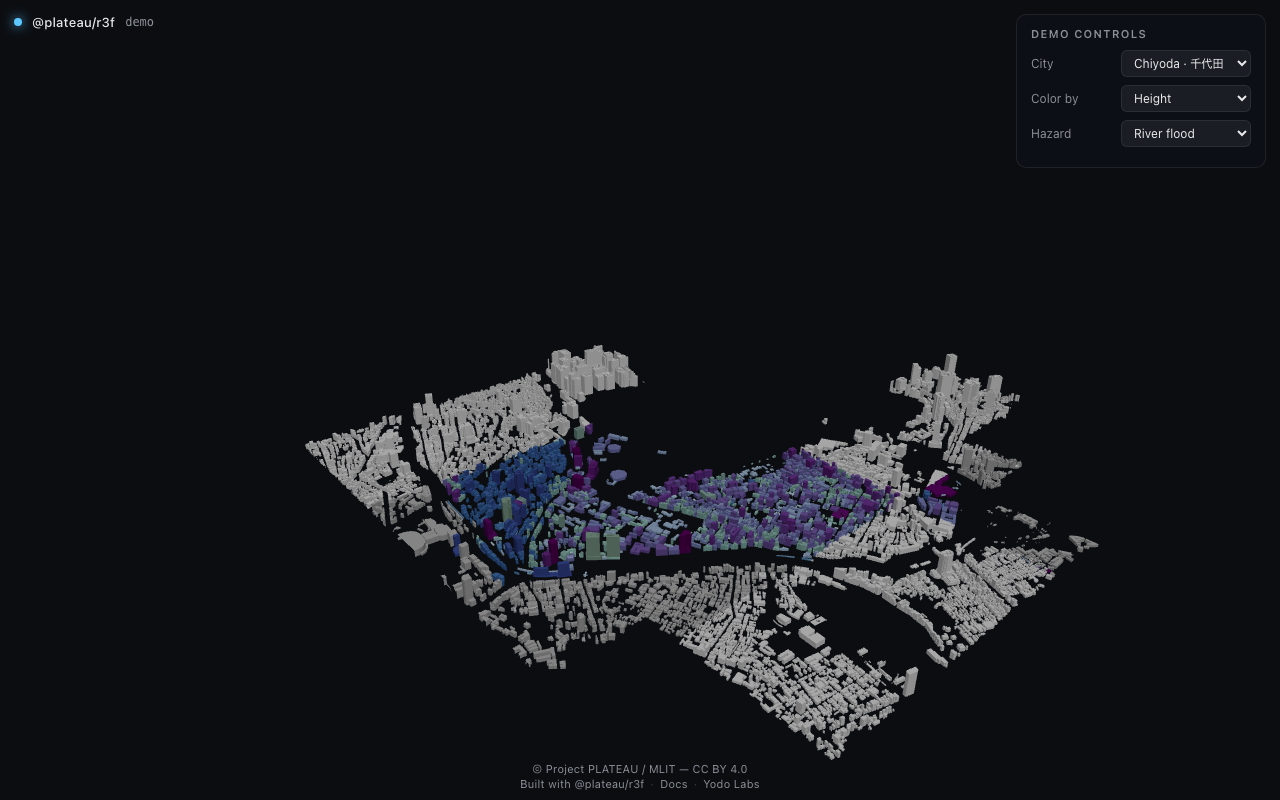
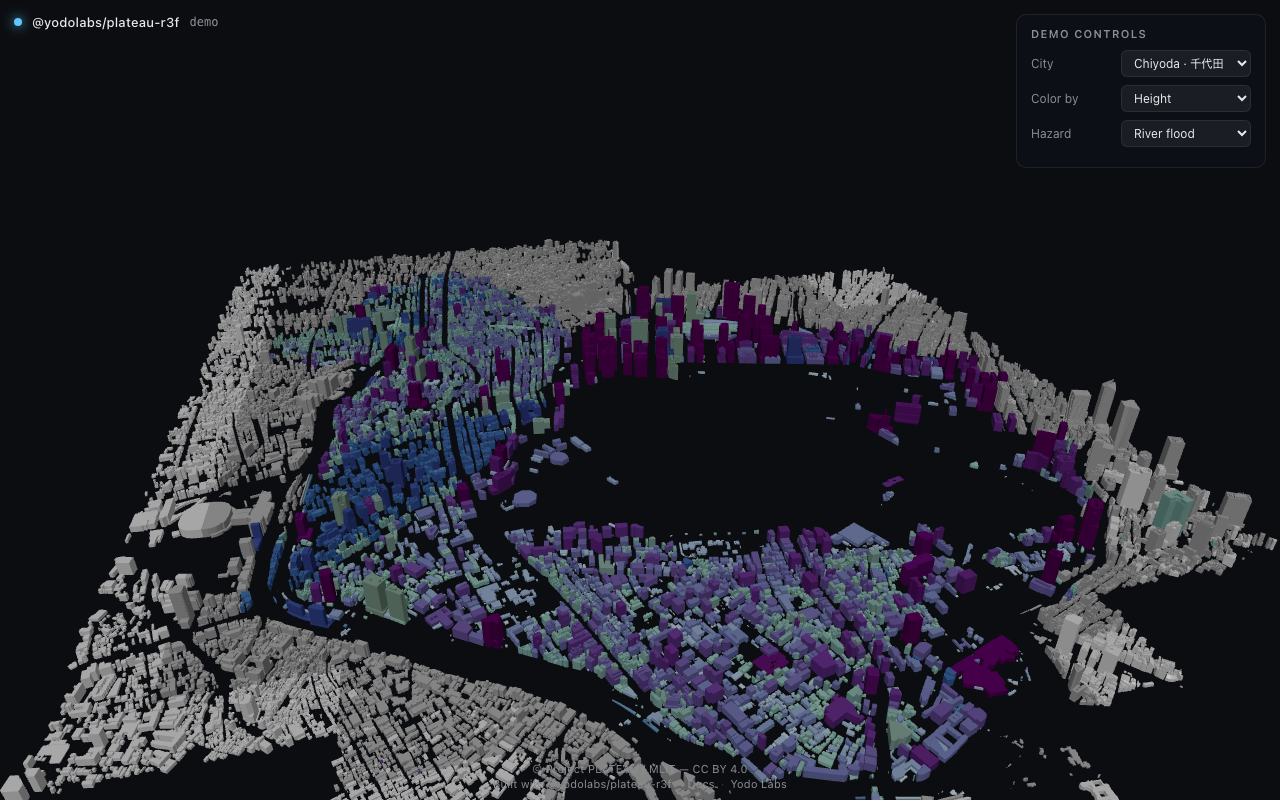
0.1.1: resilient rebuildTile retry on visibility
Fixes a race where AutoFit camera reframing during initial load caused
3D Tiles to evict tiles whose style arrows were still fetching, leaving
the re-loaded meshes unstyled. The visibility callback now retries
rebuildTile when a tile reaches 'visible' state without a color texture.

Verified on the live demo:
  chiyoda  33% colored coverage (was 12%)
  minato   26% colored coverage (was ~7%)
  kamakura 18% colored coverage (was ~7%)

diff --git a/src/core/PlateauRuntime.ts b/src/core/PlateauRuntime.ts
@@ -333,15 +333,29 @@ export async function createPlateauRuntime(
   });
 
   tileset.onTileVisibilityChanged((handle, visible) => {
+    const uri = handle.tile_content_uri;
     let changed = false;
     if (visible) {
-      if (!visibleUris.has(handle.tile_content_uri)) {
-        visibleUris.add(handle.tile_content_uri);
-        styleCache.retain(handle.tile_content_uri);
+      if (!visibleUris.has(uri)) {
+        visibleUris.add(uri);
+        styleCache.retain(uri);
         changed = true;
       }
-    } else if (visibleUris.delete(handle.tile_content_uri)) {
-      styleCache.release(handle.tile_content_uri);
+      // Resilient retry: if the tile reached "visible" without being styled
+      // (e.g. an earlier rebuildTile bailed because tileAlive went false
+      // mid-flight while the camera was reframing), trigger a fresh rebuild.
+      const entry = tiles.get(uri);
+      if (
+        entry &&
+        entry.handle.featureIdAttribute &&
+        !entry.colorTexture &&
+        entry.handle.state !== 'featureIdMissing' &&
+        entry.handle.state !== 'styleRequested'
+      ) {
+        void rebuildTile(entry);
+      }
+    } else if (visibleUris.delete(uri)) {
+      styleCache.release(uri);
       changed = true;
     }
     if (changed) emitVisibleTiles();

diff --git a/CHANGELOG.md b/CHANGELOG.md
@@ -26,13 +26,13 @@
 - Polished UI: glassmorphism control panel (city / colorBy / hazard), loading spinner, brand chip.
 - `?city=<id>` URL param for shareable views.
 
-### Known issues (0.1.x demo)
+### 0.1.1 — Resilient styling on big cities
 
-- Minato (32k buildings) and Kamakura (69k) sometimes load with some
-  buildings rendered in raw 3D Tiles material instead of styled. Suspected
-  race between AutoFit camera reframing and 3D Tiles LOD eviction causing
-  rebuildTile to skip patching on re-loaded meshes. Chiyoda always renders
-  correctly. Fix tracked for 0.2.
+- Fix a race where `rebuildTile` could bail mid-flight (camera reframing
+  caused 3D Tiles to evict a tile while its style arrow was still
+  fetching), leaving the re-loaded mesh unstyled. The visibility callback
+  now retries `rebuildTile` for any visible tile without a color texture.
+  Minato (32k buildings) and Kamakura (69k) now render with full styling.
 
 ### Plan-conformance fixes (post-review)
 